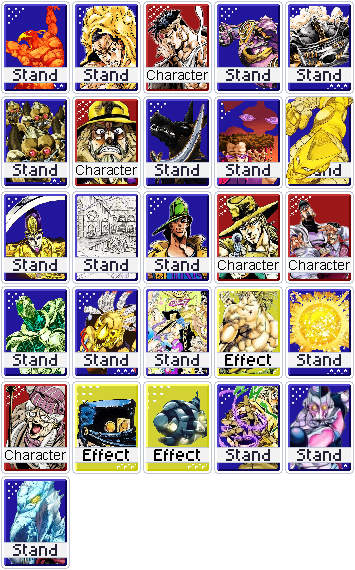
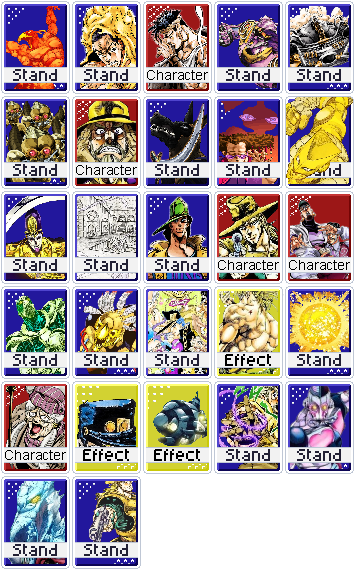
Add Emperor joker

Changed region(s): [[0.1859, 0.8351, 0.4028, 1.0]]

diff --git a/compendium/labels.py b/compendium/labels.py
@@ -63,6 +63,7 @@ LABELS = Labels(
         'skipping_blinds': ('Skipping blinds', 'Rewarded for skipping blinds.'),
         'deck_growing': ('Deck growing', 'Pay out for a bigger deck; Doctor Wu and German Engineering add cards.'),
         'deck_shrinking': ('Deck shrinking', 'Goo Goo Dolls pays out for a thinner deck; these destroy cards.'),
+        'emperor': ('Emperor', "Emperor's huge XMult comes with a chance to end the run; Rolling Stones sets that chance to 0 and Burning Down the House survives it."),
     },
     similar={
         'card_preview': 'Card preview',
@@ -95,6 +96,7 @@ LABELS = Labels(
     conflicts={
         'sets_every_chance_to_0': 'sets every chance to 0',
         'has_a_destroy_chance_that': 'has a destroy chance that Darby Brothers doubles',
+        'has_a_run_ending_chance_that': 'has a run-ending chance that Darby Brothers doubles',
         'strips_the_lucky_enhancement_sword': 'strips the Lucky enhancement Sword of Luck and Pluck relies on',
         'strips_the_stone_cards_these': 'strips the Stone cards these rely on',
         'strips_the_enhancements_spice_girl': 'strips the enhancements Spice Girl wants to eat',

diff --git a/compendium/tests/test_mod_data.py b/compendium/tests/test_mod_data.py
@@ -55,6 +55,6 @@ def test_similar_groups(rel):
 
 def test_counts_match_themes_doc(mod):
     themes = {t for j in mod.jokers for t in j.themes_core + j.themes_support}
-    assert len(themes) == 53
-    assert sum(len(j.conflicts) for j in mod.jokers) == 74
+    assert len(themes) == 54
+    assert sum(len(j.conflicts) for j in mod.jokers) == 75
     assert len({g for j in mod.jokers for g in j.similar}) == 26

diff --git a/compendium/tests/test_build.py b/compendium/tests/test_build.py
@@ -28,8 +28,8 @@ def test_outputs_exist(site):
 
 
 def test_data_has_every_joker(data):
-    assert len(data["jokers"]) == 161 and data["version"] == "v9.9.9"
-    assert len(data["themes"]) == 53
+    assert len(data["jokers"]) == 162 and data["version"] == "v9.9.9"
+    assert len(data["themes"]) == 54
 
 
 def test_search_text_includes_alt_name_lowercased(data):

diff --git a/compendium/tests/test_lua_env.py b/compendium/tests/test_lua_env.py
@@ -7,7 +7,7 @@ def find(mod, key):
 
 
 def test_loads_every_joker(mod):
-    assert len(mod.jokers) == 161
+    assert len(mod.jokers) == 162
 
 
 def test_order_is_collection_order(mod):
